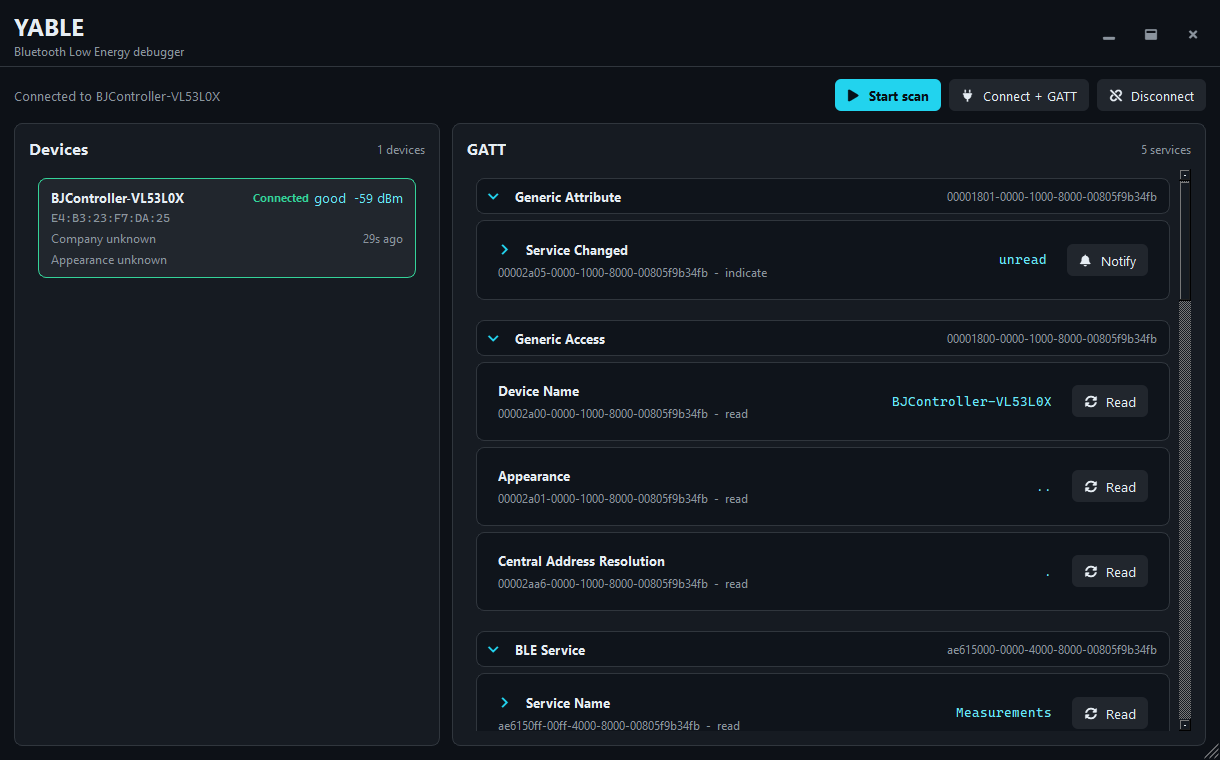
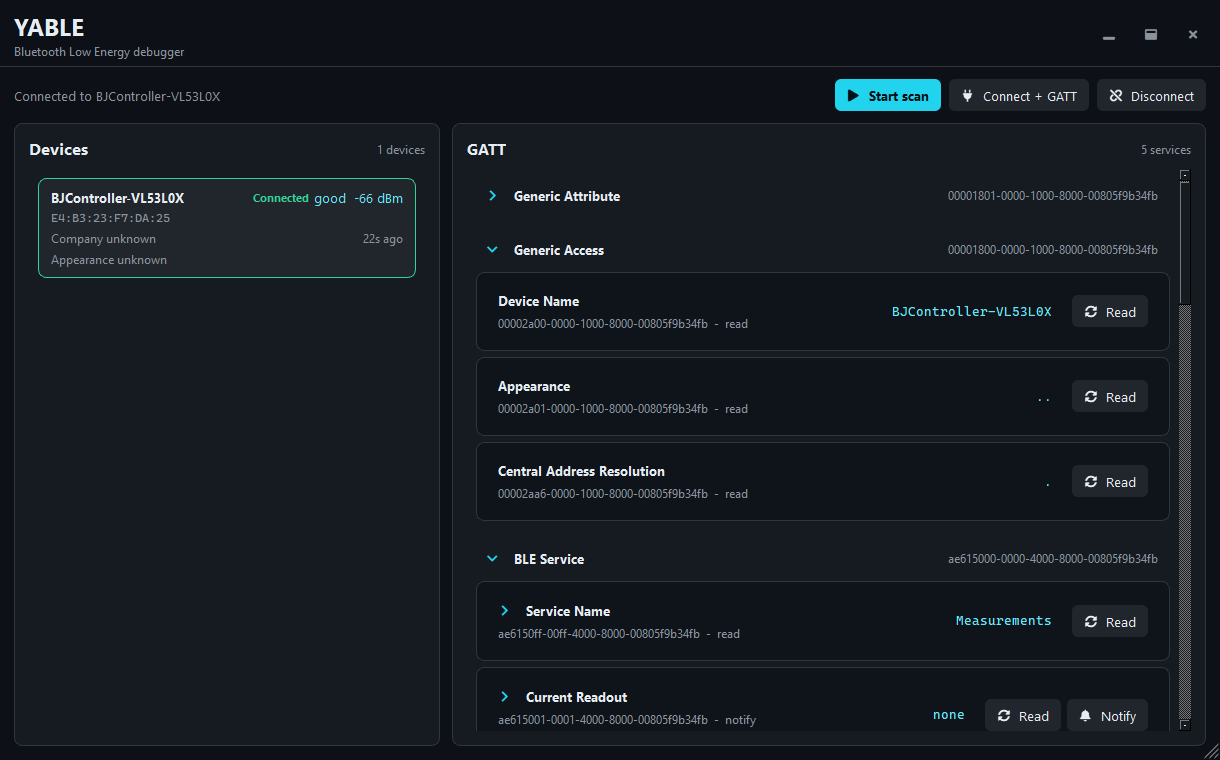
Removed Service background for better UX

diff --git a/qt_ui/app.py b/qt_ui/app.py
@@ -762,9 +762,9 @@ class BleDebuggerWindow(QMainWindow):
                 border-color: {COLORS["success"]};
             }}
             QFrame#ServiceHeader {{
-                background: {COLORS["panel_2"]};
-                border: 1px solid {COLORS["line"]};
-                border-radius: 8px;
+                background: transparent;
+                border: 0;
+                border-radius: 0;
             }}
             QPushButton {{
                 border: 0;
